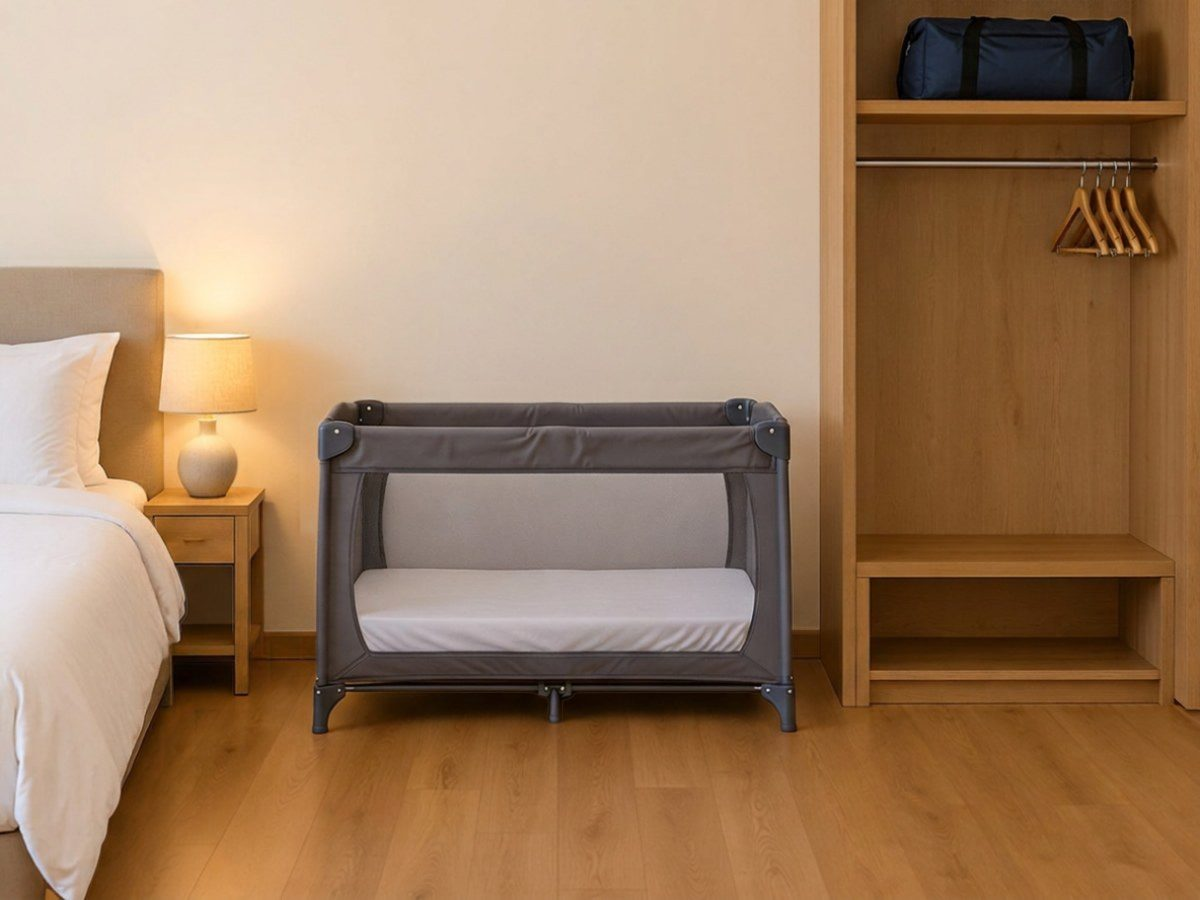
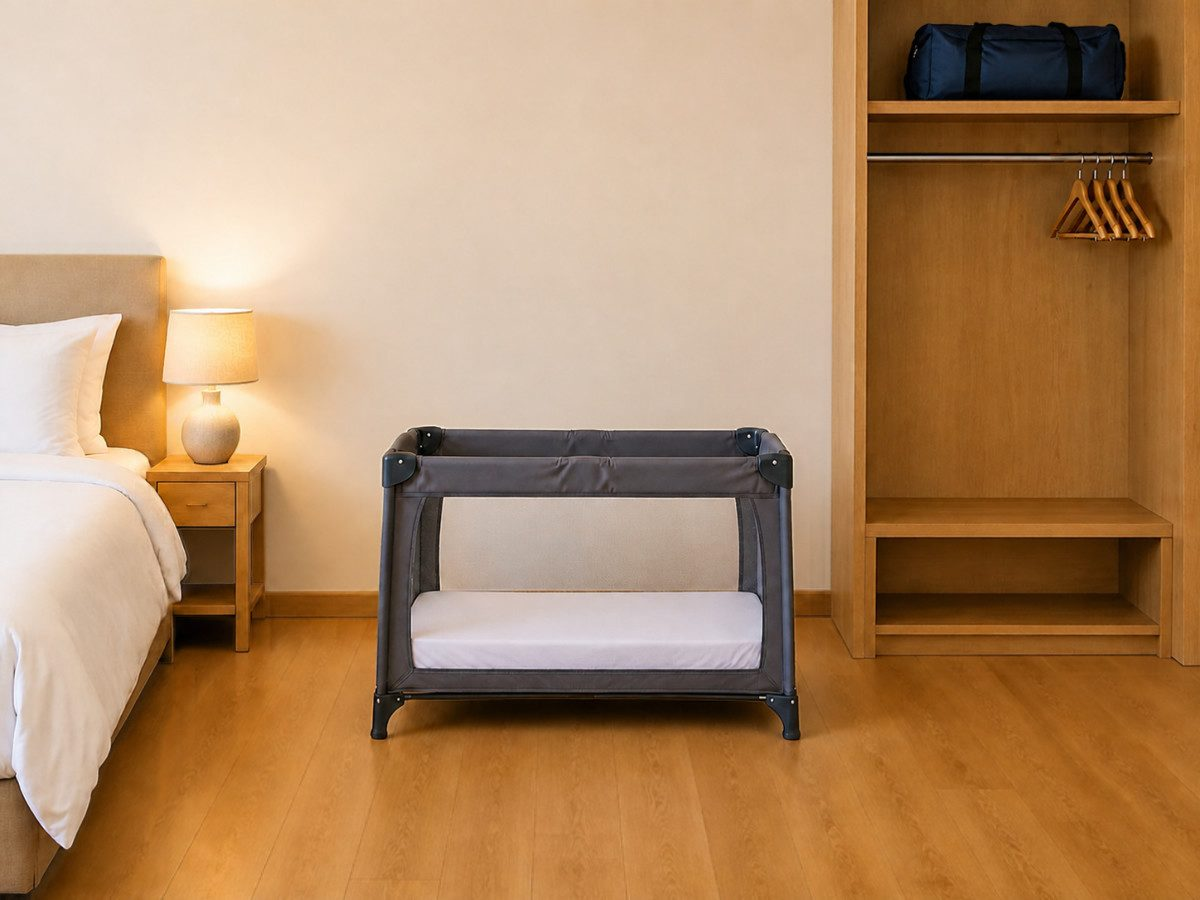
Outings: second review round (photos, tags, flight and water wording)
Claude-Session: https://claude.ai/code/session_01SSLJSF53bLf6Ps2r6oyH2M

diff --git a/js/out-and-about.js b/js/out-and-about.js
@@ -183,10 +183,10 @@
   // Only the three gear changes get a home row (see briefing.js): facing out, moving up from the infant seat, and
   // rear-facing past 1. Each depends on the gear's label, so the row says to check it, never that it's time.
   const NOWS = [
-    [0, 'Short outings are good for you both', 'Even a 10-minute walk counts. Head out after a feed.', 'errands'],
+    [0, 'Short outings are good for you both', 'Even a 10-minute walk counts.', 'errands'],
     [2, 'Ready for a longer trip?', 'As feeds spread out, a long drive or a first flight gets easier.', 'road'],
     [4, 'Ready to face out?', 'Once Maya holds {p} head steady, check your carrier’s limits.', 'carry', ['Ready to face out?', 'Once Maya holds {p} head steady, check your carrier’s limits. Its instructions say when.', 'See the carrier guide']],
-    [6, 'Snacks on the go, and a seat in the cart', 'Once {s} {sit|sits} steadily, {s} can ride in the cart’s own seat and snack while you shop.', 'errands'],
+    [6, 'A seat in the cart', 'Once {s} {sit|sits} steadily, {s} can ride in the cart’s own seat, strapped in.', 'errands'],
     [9, 'Watch the car seat’s limits', 'Moving to a convertible seat depends on the infant seat’s height and weight limits, printed on a sticker on the seat.', 'car', ['Maya may outgrow the infant car seat soon', 'Many babies do in the first year. The height and weight limits are on a sticker on the seat.', 'See which seat comes next']],
     [12, 'Rear-facing after the first birthday, too', 'Keep {o} rear-facing for as long as the seat allows.', 'car', ['Keep Maya rear-facing after the first birthday', 'Until the seat’s rear-facing limits, often age 2 or older. It protects {p} head and neck best.', 'See why it matters']]
   ];
@@ -486,7 +486,7 @@
       + h.row({ icon: 'bag', cat: CAT, title: 'Your gear', sub: 'Car seat, stroller, carrier and diaper bag', onclick: open('gear') })
       + h.row({ icon: k === 'hot' ? 'sun' : 'snow', cat: CAT, title: 'Hot and cold days', sub: k === 'hot' ? 'Shade, sunscreen and the car on hot days' : 'Layers and the car seat on cold days', onclick: open('weather') })
       + `</div>`;
-    if (nx) b += h.next(`Next · around ${nx[0]} months`, nx[1], open(nx[3]), '', { 2: 'Plan a first long drive or flight around feeds.', 4: 'Check your carrier’s limits before facing out.', 6: 'Pack snacks, and a travel crib for overnights.', 9: 'Check the height and weight sticker on the car seat.', 12: 'Check the seat’s rear-facing limits on its label.' }[nx[0]] || '');
+    if (nx) b += h.next(`Next · around ${nx[0]} months`, nx[1], open(nx[3]), '', { 2: 'Plan a first long drive or flight around feeds.', 4: 'Check your carrier’s limits before facing out.', 6: 'A seat in the cart, once {s} {sit|sits} steadily.', 9: 'Check the height and weight sticker on the car seat.', 12: 'Check the seat’s rear-facing limits on its label.' }[nx[0]] || '');
     return `<div class="quiet-category hub-page" data-overview="${CAT}" style="${yearTheme(CAT)}">${monthlyPageHeader(CAT)}${b}</div>`;
   }
 
@@ -511,9 +511,9 @@
       const v = view3.errands || 'walk';
       const walk = fig3('town', 'A parent pushing a stroller along a sunny street past a café')
         + one3('Head out right after a feed. It’s the calmest stretch.')
-        + plainRows([['carrier', 'While you’re out', 'A carrier keeps your hands free, even with the stroller.'], ['heart', 'If plans change', 'Hungry, upset or a blowout? Find a quiet spot, or head home early.']]);
+        + plainRows([['carrier', 'While you’re out', 'A carrier keeps your hands free. Bring the stroller too if you’ll want somewhere to set {o} down.'], ['heart', 'If plans change', 'Hungry, upset or a blowout? Find a quiet spot, or head home early.']]);
       const store = beforeAfter(
-          [PH('cart-before'), 'An infant car seat balanced on top of a shopping cart', 'Seat on the cart', null],
+          [PH('cart-before'), 'An infant car seat balanced on top of a shopping cart', 'Car seat on top', null],
           [PH('cart-after'), 'A parent pushing a cart with the baby in a carrier on their chest', 'In a carrier', null],
           [eats() ? ['shield', 'Or the cart’s own seat', 'With the strap on, once {s} {sit|sits} steadily'] : ['stroller', 'Or bring the stroller', 'And put the shopping underneath']])
         + one3('Never balance an infant car seat on top of a shopping cart. It can tip, or fall off.');
@@ -528,7 +528,7 @@
     if (id === 'road') return page3('road', 'car', 'Road trips', 'Plan the drive around feeds and naps.',
       `<h2 class="hub-h2">${F('Plan your drive')}</h2><div class="oa3-stops" style="--n:3">${[['car', 'Leave', 'As a nap starts'], ['bottle', 'Every 2 hours', eats() ? 'Stop to feed, change and snack' : 'Stop to feed and change'], ['home', 'Arrive', 'Sleep moves to a crib or play yard']].map(([i, t, l]) => `<div><span>${hubArt(i, CAT)}</span><b>${F(t)}</b><small>${F(l)}</small></div>`).join('')}</div>`
       + one3('Only soft toys in the car. Hard ones can fly in a sudden stop.')
-      + plainRows([['heart', 'Crying while you drive', 'Pull over somewhere safe, then take {o} out.'], ['moon', 'Naps on the road', 'Fine in the car seat while you drive.'], ['clock', 'Driving on your own', 'Plan a few more stops. Check on {o} only when you’re parked.'], bf ? [how() === 'Pumping' ? 'bottle' : 'mouth', nurses ? 'Nursing or pumping' : 'Pumping', 'Park first. {S} {stay|stays} buckled in whenever the car is moving.'] : null, typeof profile !== 'undefined' && profile.early && m < 4 ? ['steth', 'Born early?', 'Ask your pediatrician how long rides can be.'] : null, fm ? ['bottle', 'One extra bottle', 'In case of traffic'] : null]));
+      + plainRows([['heart', 'Crying while you drive', 'Pull over somewhere safe, then take {o} out.'], ['moon', 'Naps on the road', 'Fine in the car seat while you drive.'], ['clock', 'Driving on your own', 'Plan a few more stops. Check on {o} only when you’re parked.'], nurses ? ['mouth', 'Nursing', 'Park first. {S} {stay|stays} buckled in whenever the car is moving.'] : bf && pumping() ? ['bottle', 'Pumping on a long drive', 'Pump only when you’re a passenger or parked.'] : null, typeof profile !== 'undefined' && profile.early && m < 4 ? ['steth', 'Born early?', 'Ask your pediatrician how long rides can be.'] : null, fm ? ['bottle', 'One extra bottle', 'In case of traffic'] : null]));
 
     if (id === 'fly') return page3('fly', 'plane', 'Flying', 'Most flight planning happens when you book.',
       phases('fly', [
@@ -536,9 +536,9 @@
           + plainRows([['notepad', 'When you book', 'Add {o}. Flying with {o} on your lap? Ask about a bassinet seat.'], m < 2 ? ['steth', 'Flying in the first weeks', 'Ask your pediatrician first.'] : null])
           + fold3('shield', 'Check the car seat label', aircraftLabel())
           + fold3('bag', 'Flight packing extras', plainRows([fm ? ['bottle', 'One extra bottle', 'In case of delays'] : null, ['diaper', 'Diapers for the trip, plus extra', 'At least one more than you think'], ['shirt', 'A change of clothes', 'For {o}, in your carry-on'], eats() ? ['bowl', 'Snacks {s} already eats', 'Soft and easy, for delays'] : null, m >= 3 ? ['drop', 'Medicine you might need', 'A fever reducer your pediatrician has OK’d, with its syringe'] : ['chat', 'Your pediatrician’s number', 'Under 3 months, any fever means calling them first'], ['book', 'Proof of {p} age', 'Like {p} birth certificate, for a lap seat']]))],
-        ['Airport', plainRows([['bag', 'At security', bf && !fm && !pumps() ? 'Nothing extra for nursing. If you bring pumped milk, tell the officer.' : bf && !fm && !pumping() ? 'Breast milk can go through, even more than 3.4 oz. Tell the officer.' : bf && !fm ? 'Pumped milk and your pump can go through. Tell the officer.' : !bf ? 'Formula and water can go through. Tell the officer.' : pumping() ? 'Milk, formula and your pump can go through. Tell the officer.' : 'Breast milk and formula can go through. Tell the officer.'], ['stroller', 'At the gate', 'Gate-check the stroller. It waits at the plane door.'], ['car', 'If the car seat can’t go on', 'Not labeled for aircraft, or doesn’t fit? Check it at the gate.']])],
-        ['On board', one3('In {p} own seat, {s} {stay|stays} buckled in the car seat for takeoff and landing. On your lap, take {o} out of the carrier first. Either way, ' + (bf && !fm && how() === 'Nursing' ? 'nursing or a pacifier helps {p} ears.' : 'a feed or a pacifier helps {p} ears.'))
-          + plainRows([['heart', 'Crying on board', 'Walk the aisle or offer a feed. Most people understand.'], ['hand', 'A diaper change', 'Ask the crew which restroom has the fold-down table.']])],
+        ['Airport', plainRows([['bag', 'At security', bf && !fm && !pumps() ? 'Nothing extra for nursing. If you bring pumped milk, tell the officer.' : bf && !fm && !pumping() ? 'Breast milk can go through, even more than 3.4 oz. Tell the officer.' : bf && !fm ? 'Pumped milk and your pump can go through. Tell the officer.' : !bf ? 'Formula and water can go through. Tell the officer.' : pumping() ? 'Breast milk, formula and your pump can go through. Tell the officer.' : 'Breast milk and formula can go through. Tell the officer.'], ['stroller', 'At the gate', 'Gate-check the stroller. It waits at the plane door.'], ['car', 'If the car seat can’t go on', 'Not labeled for aircraft, or doesn’t fit? Check it at the gate.']])],
+        ['On board', one3('In {p} own seat, keep {o} buckled in the car seat the whole flight. On your lap, take {o} out of the carrier for taxi, takeoff and landing.')
+          + plainRows([['mouth', 'Ears on the way up and down', bf && !fm && how() === 'Nursing' ? 'Nursing or a pacifier helps.' : 'A feed or a pacifier helps.'], ['heart', 'Crying on board', 'Walk the aisle or offer a feed. Most people understand.'], ['hand', 'A diaper change', 'Ask the crew which restroom has the fold-down table.']])],
         ['Arrive', plainRows([['clock', 'After you land', 'Short trip? Keep naps on home time. Longer? Shift them a little each day.']])
           + `<button class="hub-link" onclick="openPage('chg:Sleep:d:away')">${F('Sleep in a new time zone')} ›</button>`]]));
 
@@ -547,7 +547,7 @@
         ['Before you go', `<h2 class="hub-h2">${F('Where {s} will sleep')}</h2>` + beforeAfter(
             [PH('hotel-before'), 'A hotel room with a big adult bed, pillows and a thick duvet', 'Adult bed', null],
             [PH('hotel-after'), 'The same hotel room with a bare play yard beside the bed', 'Bare play yard', null],
-            [['crib', 'A play yard, or a crib made after June 2011', 'Ask the hotel for one, or bring your own'], ['sofa', 'Never an adult bed or a couch', 'Even for a nap, even with you right there']], ['28%', '100%'])
+            [['crib', 'A play yard, or a crib made after June 2011', 'Ask the hotel for one, or bring your own'], ['sofa', 'Never an adult bed or a couch', 'Even for a nap, even with you right there']], ['28%', '30%'])
           + plainRows([['home', 'Bringing your own play yard?', 'Use only the mattress and sheet made for it. No extra padding.']])
           + fold3('bag', 'What to pack', plainRows([['sack', '{P} sleep sack', 'Warm without blankets, and it feels like home'], ['moon', 'A night light', 'For feeds in a dark, new room']]))],
         ['When you arrive', `<h2 class="hub-h2">${F('A room that’s safe for Maya')}</h2>` + fig3('away-room', 'A hotel room with a bare play yard against the wall and a travel bag up on a high closet shelf', AWAY_PINS)
@@ -574,11 +574,11 @@
       phases('abroad', [
         ['Before you go', plan('Plan your trip', [
             ['As soon as you book', 'notepad', 'Apply for {p} passport. It can take weeks.'],
-            ['4–6 weeks before', 'steth', 'Ask your pediatrician about shots, including an early measles shot from 6 months.'],
+            ['4–6 weeks before', 'steth', m >= 6 ? 'Ask your pediatrician about shots, including an early measles shot.' : 'Ask your pediatrician about shots and timing. The early measles shot starts at 6 months.'],
             ['Before you leave', 'home', 'Save the local emergency number, and how you’d find a doctor there.']], 'Apply for the passport as soon as you book. Four to six weeks before, ask the pediatrician about shots. Before you leave, save the local emergency number and how you would find a doctor there.')
           + plainRows([['chat', 'Only one parent at the passport appointment?', 'Bring the other parent’s notarized consent form.']])
           + fold3('bag', 'What to pack', plainRows([['car', '{P} own car seat', 'Taxis and rental cars may not have one'], ['thermo', 'A thermometer', 'And the medicines your pediatrician okays'], ['drop', 'Rehydration salts', 'Ask your pediatrician which kind']]))],
-        ['When you arrive', one3(fm ? 'Use sealed bottled or boiled water for formula and for washing bottles.' : 'Use sealed bottled or boiled water for washing bottles, and for your own drinks.')
+        ['When you arrive', one3('Use sealed bottled or boiled water for ' + (fm ? 'formula, ' : '') + (eats() ? '{p} cup, ' : '') + (bf && pumping() ? 'washing bottles and pump parts.' : 'washing bottles.'))
           + plainRows([['leaf', 'Mosquito netting', 'Over the crib and stroller, if there’s no air conditioning or screens']])],
         ['While you’re there', plainRows([['cup', 'Your drinks', 'No ice. It’s often made with tap water'], eats() ? ['bowl', 'Food', 'Cooked, or fruit you peel'] : null, ['bottle', 'A tummy bug', 'Keep feeding. Babies dry out faster than adults do.']])
           + calls(['Call a doctor', 'A fever, fewer wet diapers, a dry mouth, or diarrhea that keeps going.'], ['Get care right away', m < 3 ? 'Any fever under 3 months or in a malaria area, trouble breathing, or hard to wake.' : 'Any fever in a malaria area, trouble breathing, or hard to wake.'])]]));
@@ -591,12 +591,12 @@
           [PH('shade-after'), 'The same stroller in the shade of a tree, canopy forward, baby in a sun hat', 'Canopy and shade', null],
           null)
         + one3('Go out early or late, when it’s cooler, and keep {o} in the shade.')
-        + plainRows([m < 6 ? ['sun', 'Shade, not sunscreen', 'If there’s no shade, a little on {p} face is OK'] : ['sun', 'Sunscreen', 'SPF 30 or more, every 2 hours'], ['bottle', 'Keep {o} hydrated', !eats() ? 'With extra milk feeds' : 'With extra milk feeds and sips of water'], ['car', 'Cool the car first', 'Then touch the buckles: they can burn']])
+        + plainRows([m < 6 ? ['sun', 'Shade, not sunscreen', 'If there’s no shade, a little on {p} face is OK'] : ['sun', 'Sunscreen', 'SPF 30 or more. Put more on every 2 hours, and after swimming.'], ['bottle', 'Keep {o} hydrated', !eats() ? 'With extra milk feeds' : 'With extra milk feeds and sips of water'], ['car', 'Cool the car first', 'And feel the buckles before you strap {o} in. They can burn.']])
         + fold3('notepad', 'More for hot days', plainRows([['thermo', 'How hot is too hot?', 'When the heat index is 90°F or more, keep outings short or stay in.'], m >= 2 ? ['leaf', 'Bug spray, from 2 months', 'Up to 30% DEET, or picaridin. Spray your hands, then rub it on {p} skin, not {p} hands.'] : ['leaf', 'Bug spray, from 2 months', 'Not yet. Until then, use netting over the stroller.']]))
         + calls(['Call your pediatrician', 'Any sunburn, or fewer wet diapers than usual.'], ['Call 911', 'Hot to the touch and floppy or hard to wake.']);
       const cold = beforeAfter(
-          [PH('cold-before'), 'A baby in a rear-facing car seat wearing a puffy snowsuit, the straps loose on top of it', 'Puffy coat', ['Straps loose', 27, 56, 'r']],
-          [PH('cold-after'), 'The same baby in thin layers, harness snug and buckled, with a blanket over the legs on top of it', 'Blanket on top', ['Harness snug', 27, 56, 'r']],
+          [PH('cold-before'), 'A baby in a rear-facing car seat wearing a puffy snowsuit, the straps loose on top of it', 'Puffy coat', null],
+          [PH('cold-after'), 'The same baby in thin layers, harness snug and buckled, with a blanket over the legs on top of it', 'Blanket on top', null],
           [['shirt', 'Coat off before you buckle', 'A puffy coat squashes in a crash, leaving the straps too loose']])
         + one3('Warm up the car first, and feel {p} chest to check {s’s} warm enough. Cold hands are common.')
         + plainRows([['shirt', 'One more layer on walks', 'Plus a hat and mittens'], ['carrier', 'In a carrier', 'Your coat can go over you both, with {p} face uncovered.']])
@@ -614,7 +614,7 @@
 
     if (id === 'carry') return page3('gear', 'carrier', 'Carrier', 'Keep {p} face in view. A quick check every time keeps {o} breathing easy.',
       `<h2 class="hub-h2">${F('The quick check')}</h2>` + fig3('carrier', 'A baby facing in on a parent’s chest in a soft carrier, face fully visible, chin up, knees bent in an M shape', CARRY_PINS)
-      + `<p class="oa-psteps-note oa3-under">${F('Back supported, and knees up in an M, higher than {p} bottom.')}</p>`
+      + `<p class="oa-psteps-note oa3-under">${F('Face in view and chin off {p} chest. Back supported, knees up in an M.')}</p>`
       + `<h2 class="hub-h2">${F('Ways to carry, as {s} {grow|grows}')}</h2><div class="oa3-thumbs">${[['carry-newborn', 'From birth', 'Facing in'], ['carry-out', 'Head steady', 'Facing out, for short awake times'], ['carry-back', 'Sits steadily', 'On your back']].map(([p, w, t]) => `<figure><img src="${PH(p)}" alt="" loading="lazy"><figcaption><b>${F(w)}</b><small>${F(t)}</small></figcaption></figure>`).join('')}</div>`
       + `<p class="oa-psteps-note">${F('Each within your carrier’s own limits. Its instructions say when.')}</p>`
       + good([['moon', 'Asleep in the carrier', 'Move {o} to a flat bed when you can.'], ['cup', 'Away from the stove', 'And from hot drinks, while {s’s} in the carrier.']]));
@@ -633,8 +633,8 @@
     if (id === 'snacks') return detail3('errands');
     return null;
   }
-  const AWAY_PINS = [['Bare play yard', 67, 47, 'r'], ['Bags up high', 73, 7, 'l']];
-  const CARRY_PINS = [['Face in view', 59, 19, 'r'], ['Chin off the chest', 47, 30, 'l']];
+  const AWAY_PINS = [['Bare play yard', 50, 66, 'r'], ['Bags up high', 82, 8, 'l']];
+  const CARRY_PINS = [];
   // Three quick checks for any new place (ticks saved on this phone, cleared with Start over).
   const CHECKS_KEY = 'ahead-away-3';
   window.oaCheck3 = i => { let on = []; try { on = JSON.parse(localStorage.getItem(CHECKS_KEY)) || []; } catch (e) {} on = on.includes(i) ? on.filter(x => x !== i) : on.concat(i); try { localStorage.setItem(CHECKS_KEY, JSON.stringify(on)); } catch (e) {} const y = scrollY; render(); scrollTo(0, y); };

diff --git a/index.html b/index.html
@@ -14,7 +14,7 @@
 <link rel="stylesheet" href="css/health-show.css?v=1119d">
 <link rel="stylesheet" href="css/health-pages-v2.css?v=1119u">
 <link rel="stylesheet" href="css/safety-look.css?v=1118s">
-<link rel="stylesheet" href="css/outings-look.css?v=1120k">
+<link rel="stylesheet" href="css/outings-look.css?v=1120l">
 <link rel="stylesheet" href="css/childcare-look.css"><link rel="stylesheet" href="css/care-card.css">
 <link rel="stylesheet" href="css/care-v2.css?v=1117x">
 <link rel="stylesheet" href="css/year-ahead.css?v=1115c"><link rel="stylesheet" href="css/subpage-color.css"><style>#main .you-avatar.has-photo{overflow:hidden;padding:0}#main .you-avatar.has-photo img{width:100%;height:100%;object-fit:cover;display:block}</style><link rel="stylesheet" href="css/stages-nav.css"><link rel="stylesheet" href="css/home-cards.css"><link rel="stylesheet" href="css/home-glance.css?v=1117g"><link rel="stylesheet" href="css/one-app.css"><link rel="stylesheet" href="css/month-story.css"><link rel="stylesheet" href="css/guides-v2.css?v=1"><link rel="stylesheet" href="css/home-card-clean.css?v=3"><link rel="stylesheet" href="css/dev-photo.css?v=34"></head>
@@ -35,7 +35,7 @@
 <script src="js/hub-categories.js?v=1120h"></script>
   <script src="js/hub-pages.js?v=1120a"></script>
 <script src="js/stage-timeline.js?v=1113e"></script>
-<script src="js/out-and-about.js?v=1120k"></script>
+<script src="js/out-and-about.js?v=1120l"></script>
 <script src="js/care-card-render.js"></script><script src="js/childcare.js?v=1114x"></script>
 <script src="js/dev-play-art.js"></script>
 <script src="js/dev-scenes.js?v=1113e"></script>
